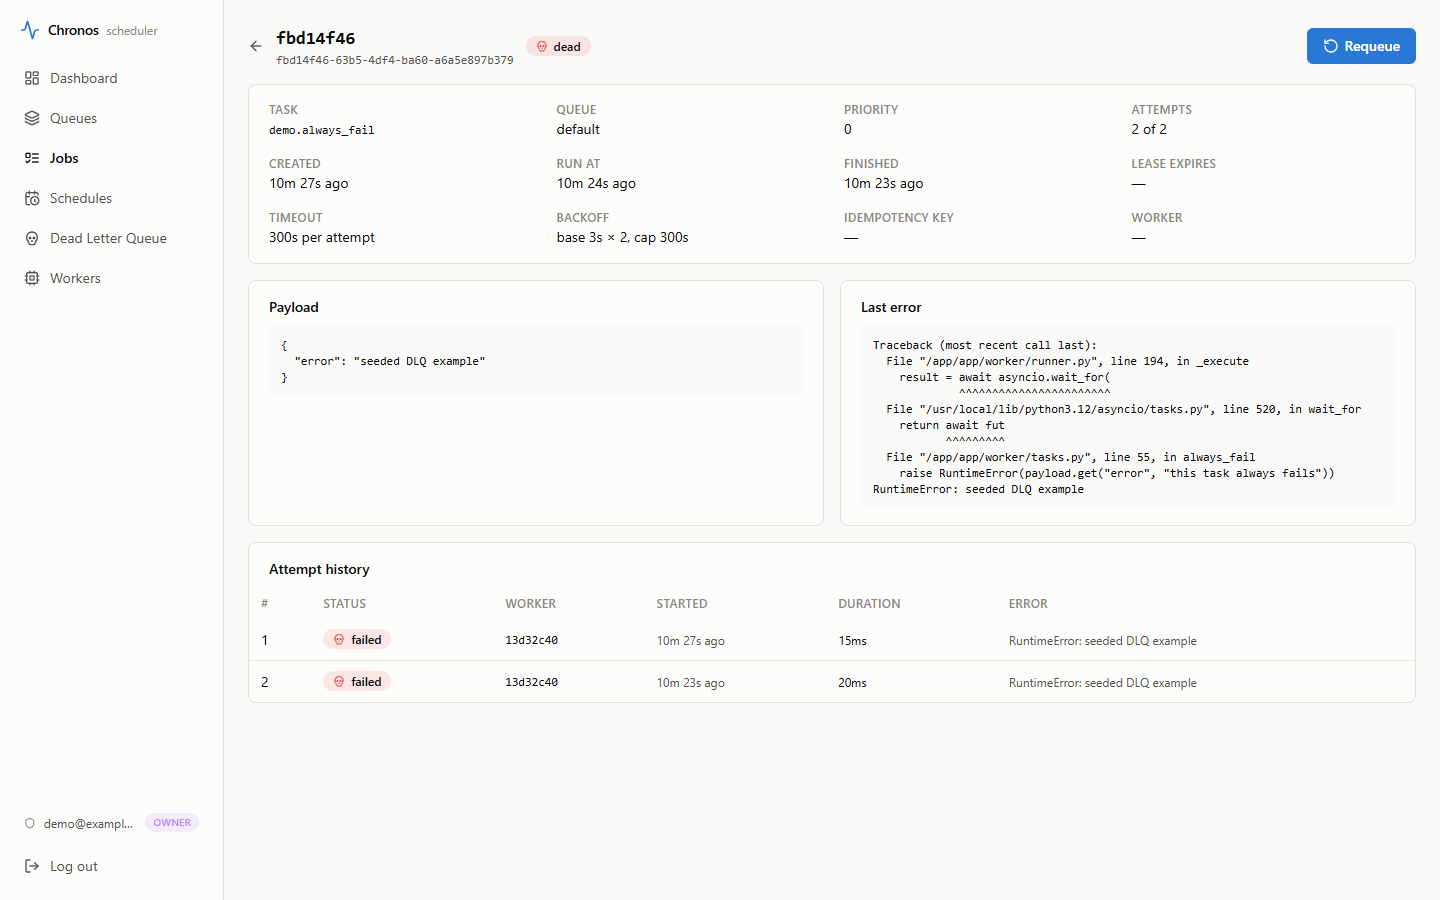
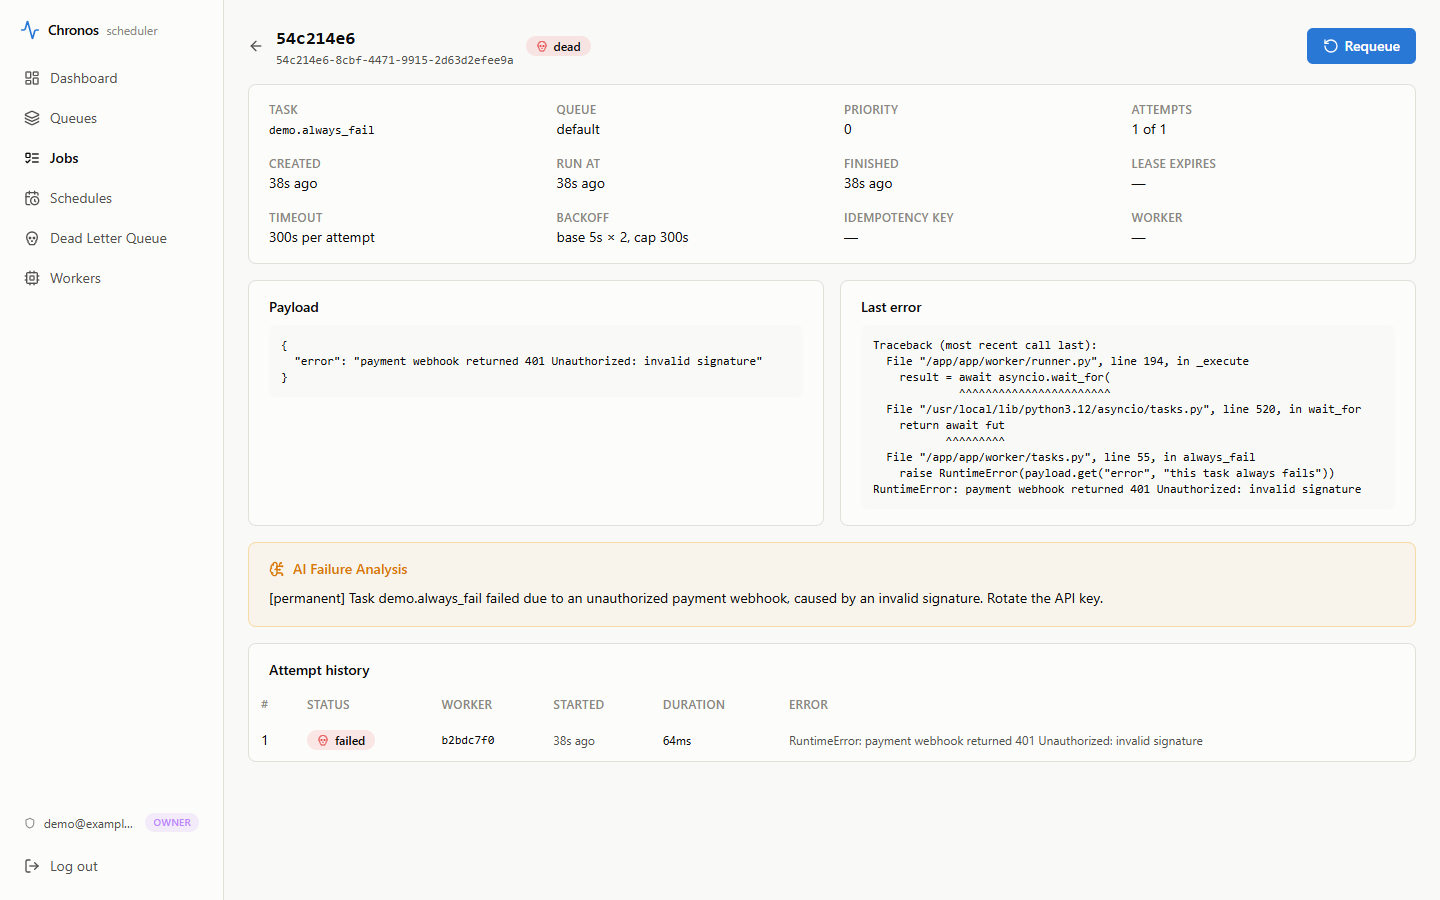
docs: submission PDF — live AI failure analysis screenshot from the hosted stack

diff --git a/tools/build_submission.py b/tools/build_submission.py
@@ -52,7 +52,7 @@ SCREENSHOTS = [
     ("01-dashboard.png", "Dashboard — cluster stats, throughput (succeeded/failed per minute), status distribution; polls live."),
     ("02-queues.png", "Queues — per-queue counts, pause/resume, shard badges, concurrency caps, default retry policy, config dialog."),
     ("03-jobs.png", "Job explorer — status/queue filters, pagination, priorities, attempts."),
-    ("04-job-detail.png", "Job detail — a DLQ'd job: payload, full traceback, retry/backoff policy, per-attempt execution history with worker assignment and durations, one-click requeue."),
+    ("04-job-detail.png", "Job detail — a DLQ'd job on the hosted deployment: payload, full traceback, per-attempt execution history with worker assignment, one-click requeue, and the AI Failure Analysis note produced live by the multi-agent LangGraph pipeline (triage classified it [permanent], diagnosed the invalid signature, recommended the fix)."),
     ("05-schedules.png", "Recurring schedules — cron expression, next/last run cursors, pause/resume, create dialog with presets."),
     ("06-dlq.png", "Dead Letter Queue — jobs that exhausted their retry budget; inspect and requeue with a fresh budget."),
     ("07-workers.png", "Worker fleet — liveness via heartbeats; a worker silent for 60s is declared offline and its leases reclaimed."),